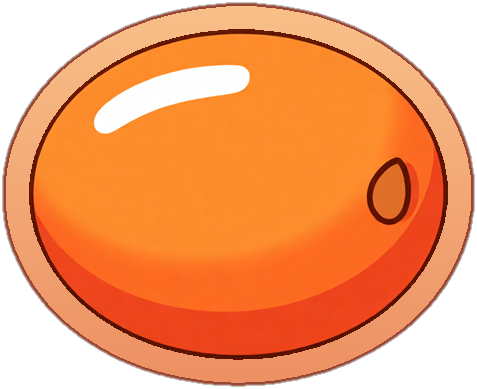
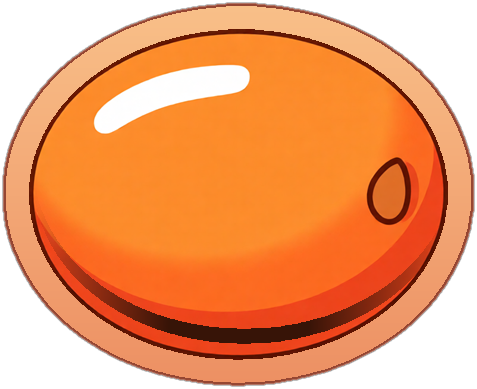
Wheel orange: dark curved line along the bottom, as on the lemon
Claude-Session: https://claude.ai/code/session_01QtFU6dnfvYaBk3D56xrstq

Changed region(s): [[0.0881, 0.5861, 0.9099, 0.8946]]

diff --git a/tools/wheel_symbols.py b/tools/wheel_symbols.py
@@ -17,12 +17,39 @@ ROOT = os.path.join(os.path.dirname(__file__), "..")
 SRC = os.path.join(ROOT, "artwork", "wheel_src")
 OUT = os.path.join(ROOT, "game", "assets", "objects")
 TMP = os.path.join(SRC, "_tmp.png")
+CRESCENT = {"w_narancs"}  # fruit that get the dark crescent along the bottom, like the lemon
+
+
+def crescent(im):
+    # a dark curved line a little inside the lower edge (as on the lemon): the fruit's shape shifted up by d1
+    # minus the shape shifted up by d2, kept to the lower part and faded out towards the sides
+    a = np.array(im).astype(np.float32)
+    m = a[:, :, 3] > 40
+    h = int(np.ptp(np.where(m.any(axis=1))[0]))
+
+    def up(d, dx):
+        u = np.zeros_like(m)
+        u[:-d, dx:] = m[d:, :-dx]
+        return u
+
+    d1, d2, dx = int(h * 0.055), int(h * 0.1), max(2, int(h * 0.02))
+    band = m & up(d1, dx) & ~up(d2, dx)
+    ys, xs = np.where(m)
+    cy, cx, half = (ys.min() + ys.max()) / 2, (xs.min() + xs.max()) / 2, (xs.max() - xs.min()) / 2
+    yy, xx = np.mgrid[:m.shape[0], :m.shape[1]]
+    k = np.clip((yy - cy) / (h * 0.2), 0, 1) * np.clip(1.35 - 1.3 * np.abs(xx - cx) / half, 0, 1)
+    k = np.where(band, np.minimum(k, 0.92), 0)[:, :, None]
+    a[:, :, :3] = a[:, :, :3] * (1 - k) + np.array([40, 16, 6]) * k
+    return Image.fromarray(a.clip(0, 255).astype(np.uint8))
+
 
 # (name, horizontal, vertical stretch)
 for name, sx, sy in (("w_szilva", 1, 1), ("w_narancs", 1, 1), ("w_dinnye", 1, 1), ("w_csengo", 1.12, 1.08)):
     im = Image.open(os.path.join(SRC, name + ".png")).convert("RGBA")
     if (sx, sy) != (1, 1):
         im = im.resize((round(im.width * sx), round(im.height * sy)), Image.LANCZOS)
+    if name in CRESCENT:
+        im = crescent(im)
     im.save(TMP)
     add_rim.main(TMP, os.path.join(OUT, name + ".png"))
 os.remove(TMP)
